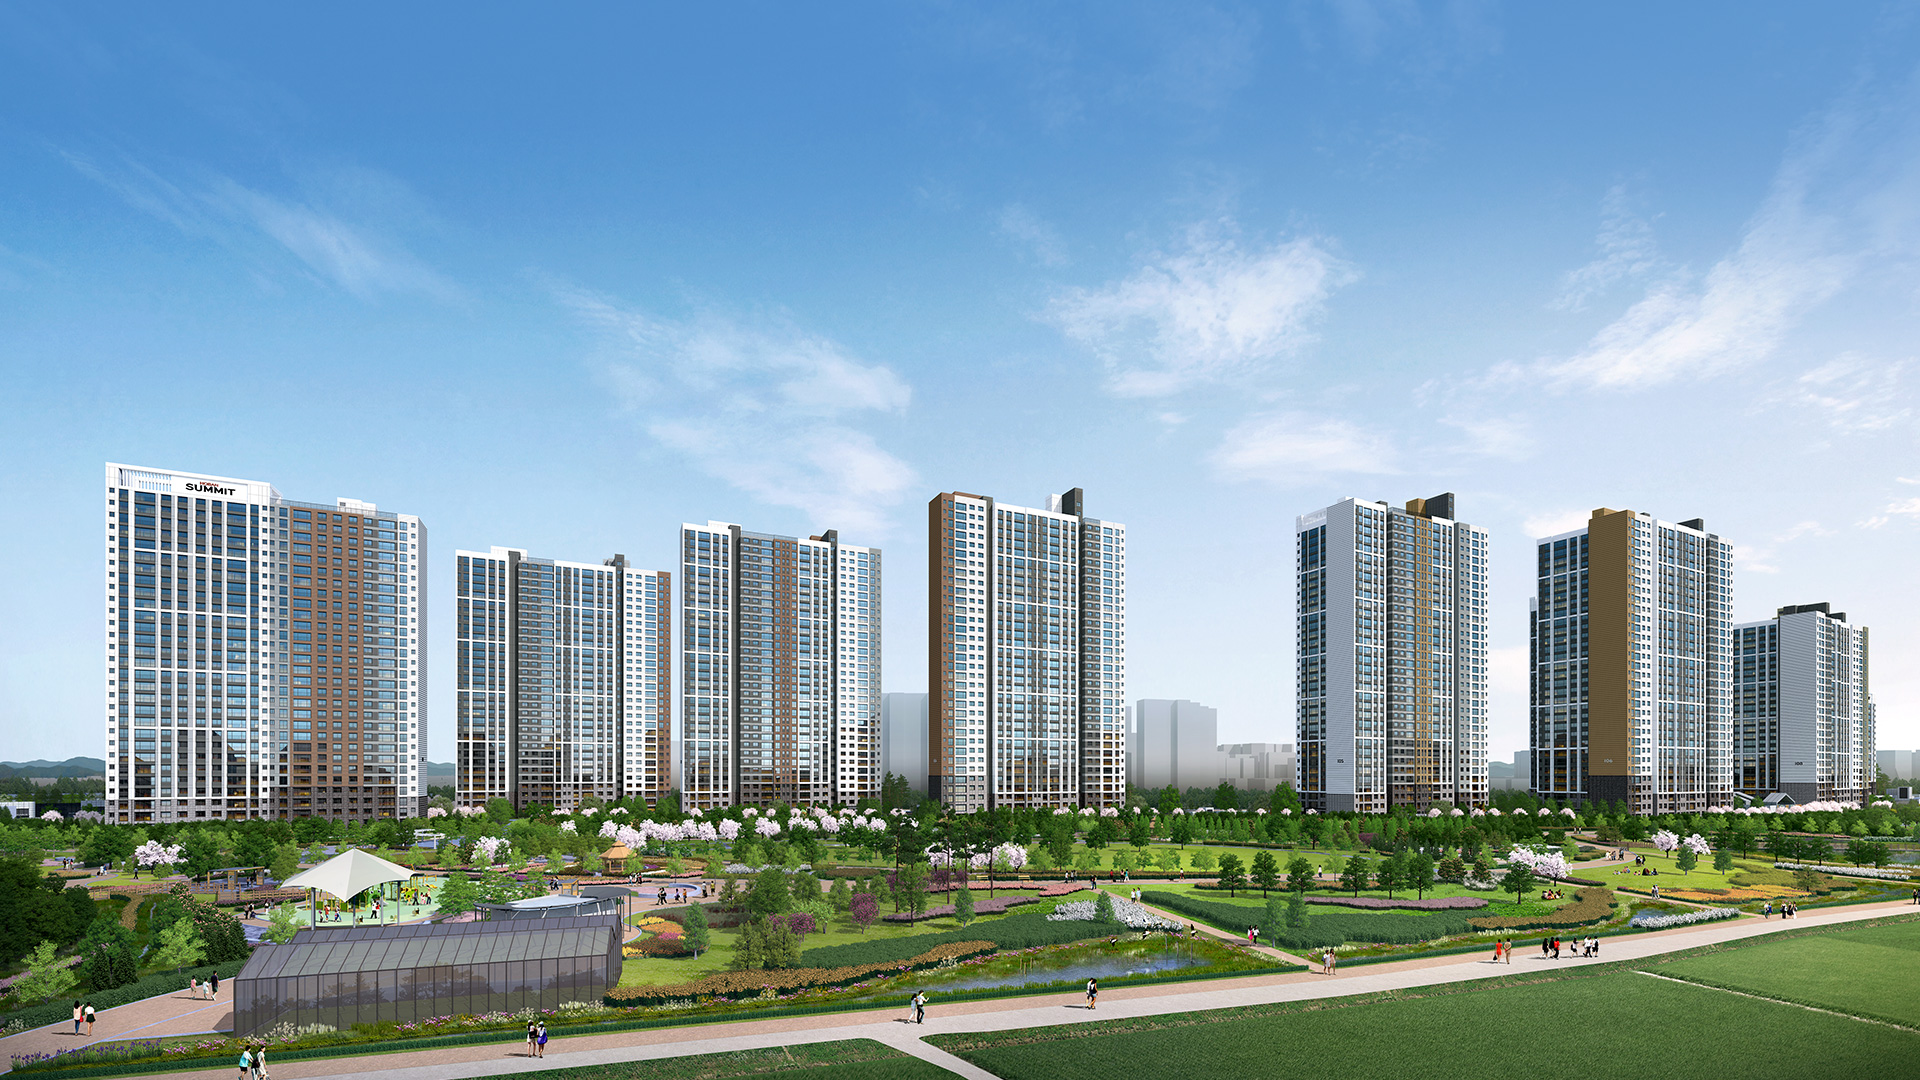
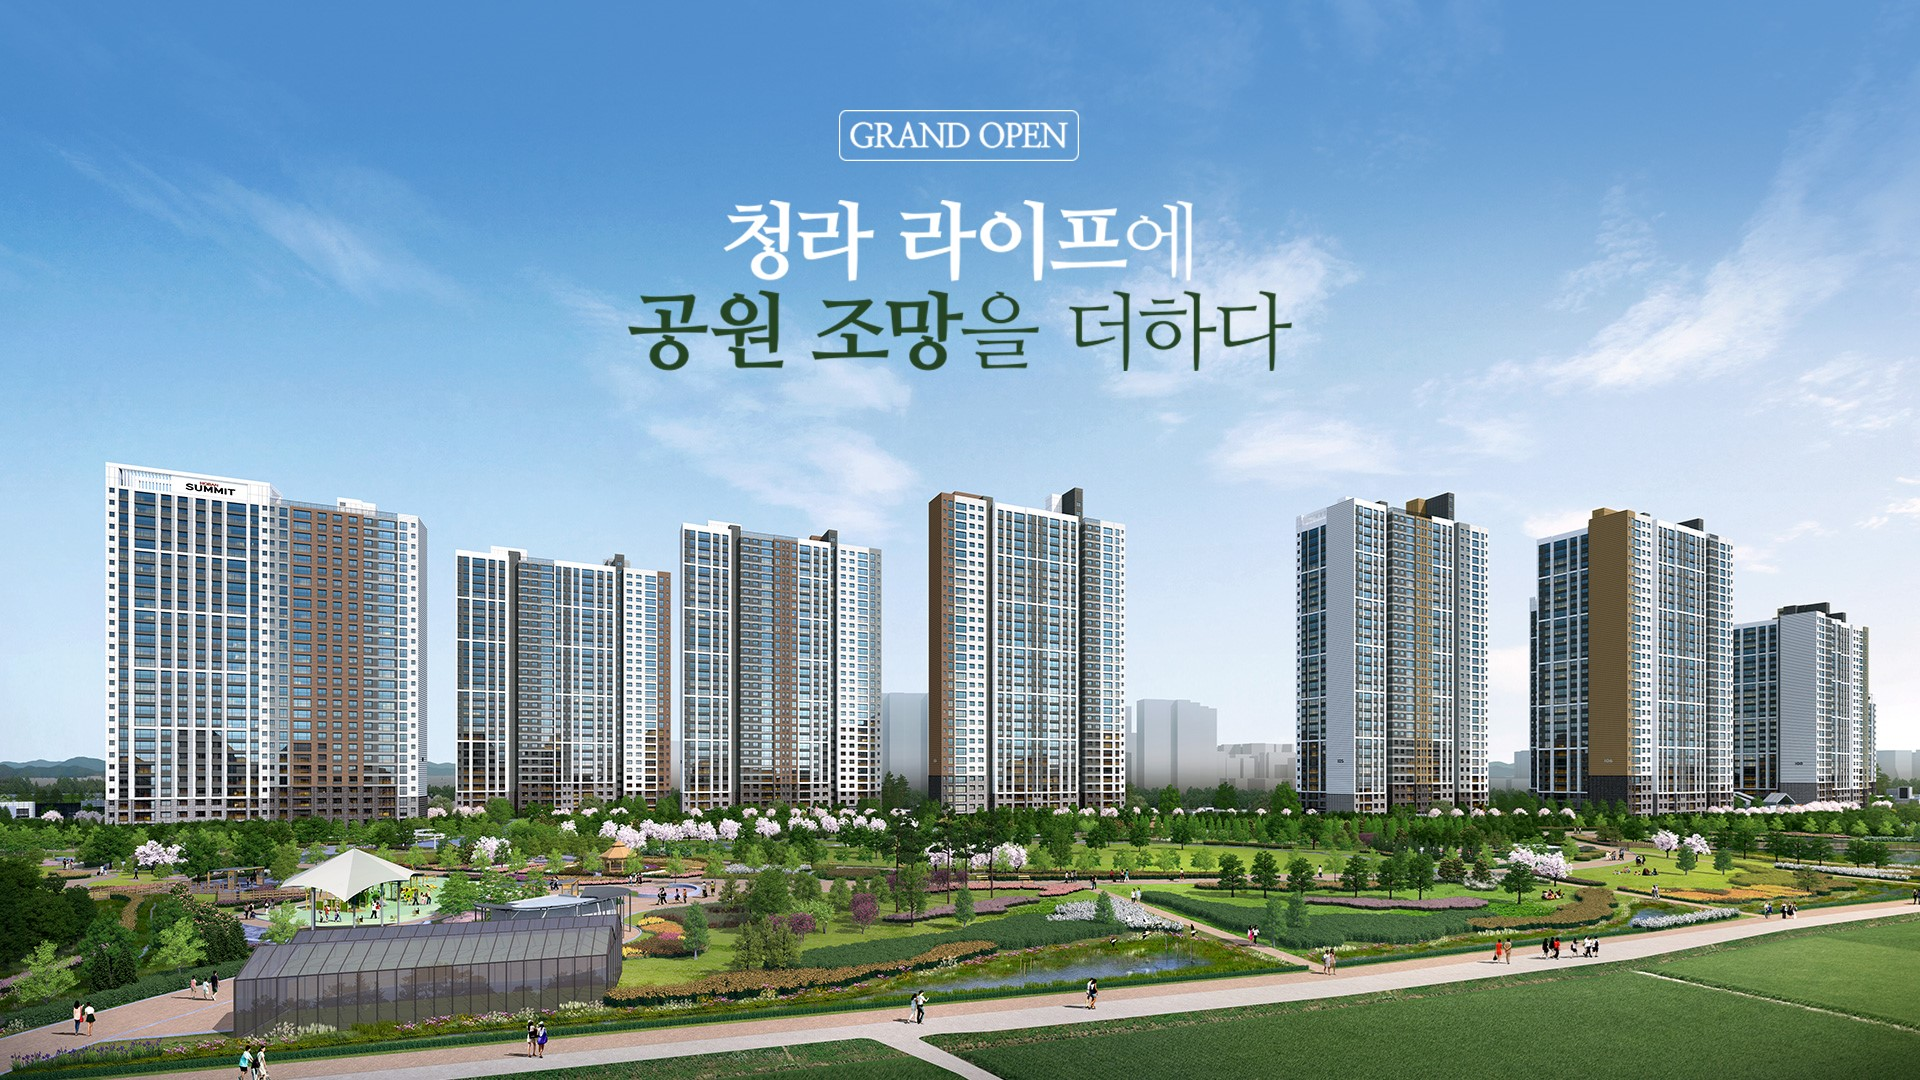
call and modal

diff --git a/index.html b/index.html
@@ -7,7 +7,7 @@
 <!DOCTYPE html>
 <html>
 <head>
-    <title>Modus - Single Page Portfolio Theme | GraphBerry.com</title>
+    <title>단지안내 - 인천연희공원 호반써밋</title>
     <meta charset="utf-8">
     <meta http-equiv="X-UA-Compatible" content="IE=edge">
     <meta name="viewport" content="width=device-width, initial-scale=1">
@@ -31,9 +31,53 @@
     <link rel="stylesheet" href="https://cdnjs.cloudflare.com/ajax/libs/lightbox2/2.8.2/css/lightbox.min.css">
     <link rel="stylesheet" href="css/my_mouseover.css" />
 
+
+	<link rel="stylesheet" href="//maxcdn.bootstrapcdn.com/bootstrap/3.3.2/css/bootstrap.min.css">
+<script src="https://code.jquery.com/jquery-3.5.1.min.js"></script>
+<script src="//maxcdn.bootstrapcdn.com/bootstrap/3.3.2/js/bootstrap.min.js"></script>
+	<script>
+		$(function() {
+			$("#modal").modal("show");
+		});
+		</script>
+		
 </head>
 <body>
 
+
+	<div class="modal" id="modal"  role="dialog" aria-labelledby="remoteModalLabel" aria-hidden="true" >
+		<div class="modal-dialog" style="width:850px;">
+			<div class="modal-content" >
+				<div class="modal-header">
+					<button type="button" class="close" data-dismiss="modal" aria-hidden="true">
+						
+					</button>
+					<h4 class="modal-title" id="myModalLabel"></h4>
+				</div>
+				<div class="modal-body">
+					<div class="jarviswidget jarviswidget-color-blueDark" id="wid-id-4" data-widget-editbutton="false" data-widget-colorbutton="false" data-widget-deletebutton="false" data-widget-togglebutton="false">
+						<div role="content">
+							<div class="widget-body">		
+								<p style="text-align: center;"><img src="./img/test1/1.jpg" style="width: 480px; height: 500px;" class="fr-dib"></p>
+								<!-- <a href="tel:전화번호"> 표시할 문자 혹은 <img>태그 </a>
+								<a href="tel-av:전화번호"> 표시할 문자 혹은 <img>태그 </a>
+								<a href="sms:전화번호"> 표시할 문자 혹은 <img>태그 </a>
+								<a href="mailto:메일주소"> 표시할 문자 혹은 <img>태그 </a> -->
+
+
+							</div>
+						</div>
+					</div>
+				</div>
+				<div class="modal-footer">
+					<button type="button" class="btn btn-default" data-dismiss="modal">닫기</button>
+					<!-- <button type="button" class="btn btn-primary" id="btn_save">저장</button> -->
+				</div>
+			</div>
+		</div>
+	</div>
+
+	
 	<header id="header">
 		
 		<!-- Section title -->
@@ -60,13 +104,16 @@
 		    <!-- Collect the nav links, forms, and other content for toggling -->
 		    <div class="collapse navbar-collapse" id="main-navbar">
 		      <ul class="nav navbar-nav navbar-right">
-		        <li class="active"><a class="smoothScroll" href="#home">Home <span class="sr-only">(current)</span></a></li>
-		        <li><a class="smoothScroll" href="#business">사업개요</a></li>
-				<li><a class="smoothScroll" href="#premium">프리미엄</a></li>
-		        <li><a class="smoothScroll" href="#location">입지안내</a></li>
-		        <li><a class="smoothScroll" href="#estate">단지안내</a></li>
-		        <li><a class="smoothScroll" href="#generation">세대안내</a></li>
-				<li><a class="smoothScroll" href="#application">미계약분대기신청</a></li>
+		        <li class="active"><a class="smoothScroll" href="#home" style="font-size:large;">Home <span class="sr-only">(current)</span></a></li>
+		        <li><a class="smoothScroll" href="#business" style="font-size:large;">사업개요</a></li>
+				<li><a class="smoothScroll" href="#premium" style="font-size:large;">프리미엄</a></li>
+		        <li><a class="smoothScroll" href="#location" style="font-size:large;">입지안내</a></li>
+		        <li><a class="smoothScroll" href="#estate" style="font-size:large;">단지안내</a></li>
+		        <li><a class="smoothScroll" href="#generation" style="font-size:large;">세대안내</a></li>
+				<li><a class="smoothScroll" href="#application" style="font-size:large;">미계약분대기신청</a></li>
+				<li><a class="smoothScroll" href="tel:전화번호" style="font-size:large; color:#f25656 ;    filter: invert(16%) sepia(89%) saturate(6054%) hue-rotate(358deg) brightness(97%) contrast(113%);"> 
+					<img src="./img/test1/telephone.svg">010-7202-8295</a></li>
+
 		      </ul>
 		    </div><!-- /.navbar-collapse -->
 		  </div><!-- /.container -->
@@ -76,38 +123,15 @@
 
 	<main>
 		
-		<section id="home">
-
+		<section id="home1">
 			<!-- Section title -->
-			<h1 class="sr-only">Home section</h1>
-			
-
-			<div class="home-content">
+			<h1 class="sr-only">Home section1</h1>
+			<div class="home-content2">
 						<div class="text _text_wrap">
 							<div class="text-wrap _text fr-view">
-							    <p style="text-align: center;"><br></p>
-							    <p style="text-align: center;"><br></p>
-							    <p><br></p>
-							    <p><br></p>
-								<p><br></p>
-							    <p><img src="https://cdn.imweb.me/upload/S20230228dff527f4c4b41/ea8cc899ea644.png" style="width: 100vw;" class="fr-dib"></p>
-							    <p><strong></strong><br></p>
-							    <p style="text-align: center;"><strong><span style="font-size: 48px; color: rgb(255, 255, 4);">청라 연희공원 호반써밋</span></strong></p>
-							    <p style="text-align: center;"><br></p>
-							    <p style="text-align: center;"><img src="https://cdn.imweb.me/upload/S20230228dff527f4c4b41/5154cc2d6f4b3.png" style="width: 100vw;" class="fr-dib"></p>
-							    <p style="text-align: center;"><br></p>
-							    <p style="text-align: center;"><br></p>
-							    <p style="text-align: center;"><br></p>
-							    <p style="text-align: center;"><br></p>
-							    <p style="text-align: center;"><br></p>
-							    <p style="text-align: center;"><br></p>
-							    <p style="text-align: center;"><br></p>
-							    <p style="text-align: center;"><br></p>
-							    <p style="text-align: center;"><br></p>
-							    <p style="text-align: center;"><br></p>
-							    <p style="text-align: center;"><br></p>
-							    <p style="text-align: center;"><br></p>
-							    <p style="text-align: center;"><br></p>
+								<p style="text-align: center;"><img src="./img/test1/1.jpg" style="width: 100vw; height: auto;" class="fr-dib"></p>
+
+								
 							</div>
 						</div>
 					</div>
@@ -115,7 +139,6 @@
 			</div>
 
 		</section>
-		<br><br><br><br><br>
 		<section id="home2">
 			<!-- Section title -->
 			<h1 class="sr-only">Home section2</h1>
@@ -124,6 +147,8 @@
 							<div class="text-wrap _text fr-view">
 							    <p style="text-align: center;"><br></p>
 							    <p style="text-align: center;"><br></p>
+								<!-- <p style="text-align: center;"><img src="./img/test1/1.jpg" style="width: 100vw; height: auto;" class="fr-dib"></p> -->
+
 								<!-- 두번째 사진-->
 							    <p><img src="./img/test1/2.png" style="max-width: 100%; height: auto; display: block; margin-left: auto; margin-right: auto;"> </p>
 							    <p><strong></strong><br></p>
@@ -263,10 +288,10 @@
 									</section>	
 								</div>
 								-->
-								<div class="col-sm-6 col-md-4 col-lg-3 item"><a href="./img/test1/15.png" data-lightbox="photos"><img class="img-fluid" src="./img/test1/15.png" style="max-width: 100% !important; height: auto !important;"></a></div>
-								<div class="col-sm-6 col-md-4 col-lg-3 item"><a href="./img/test1/16.png" data-lightbox="photos"><img class="img-fluid" src="./img/test1/16.png" style="max-width: 100% !important; height: auto !important;"></a></div>
-								<div class="col-sm-6 col-md-4 col-lg-3 item"><a href="./img/test1/17.png" data-lightbox="photos"><img class="img-fluid" src="./img/test1/17.png" style="max-width: 100% !important; height: auto !important;"></a></div>
-								<div class="col-sm-6 col-md-4 col-lg-3 item"><a href="./img/test1/18.png" data-lightbox="photos"><img class="img-fluid" src="./img/test1/18.png" style="max-width: 100% !important; height: auto !important;"></a></div>
+								<div class="col-sm-6 col-md-4 col-lg-3 item"><a href="./img/test1/15.png" data-lightbox="photos"><img class="img-fluid" src="./img/test1/15.png" style="max-width: 100% !important; height: auto !important;   flex-wrap: wrap;"></a></div>
+								<div class="col-sm-6 col-md-4 col-lg-3 item"><a href="./img/test1/16.png" data-lightbox="photos"><img class="img-fluid" src="./img/test1/16.png" style="max-width: 100% !important; height: auto !important; flex-wrap: wrap;"></a></div>
+								<div class="col-sm-6 col-md-4 col-lg-3 item"><a href="./img/test1/17.png" data-lightbox="photos"><img class="img-fluid" src="./img/test1/17.png" style="max-width: 100% !important; height: auto !important; flex-wrap: wrap;"></a></div>
+								<div class="col-sm-6 col-md-4 col-lg-3 item"><a href="./img/test1/18.png" data-lightbox="photos"><img class="img-fluid" src="./img/test1/18.png" style="max-width: 100% !important; height: auto !important; flex-wrap: wrap;"></a></div>
 								<!-- <div class="col-sm-6 col-md-4 col-lg-3 item" ><a href="./img/test1/15.png" data-lightbox="photos"><img class="img-fluid" src="./img/test1/15.png"></a></div> -->
 								<!-- <div class="col-sm-6 col-md-4 col-lg-3 item"><a href="./img/test1/12.png" data-lightbox="photos"><img class="img-fluid" src="assets/img/desk.jpg"></a></div> -->
 							</div>

diff --git a/css/style.css b/css/style.css
@@ -182,11 +182,11 @@ HOME SECTION
 ***********************/
 
 #home {
-	height: 725px;
+	/* height: 725px; */
 	/* height: 1500px; */
 
 	/* height : responsive; */
-	background: url("../img/header.jpg") center center no-repeat;
+	/* background: url("../img/header.jpg") center center no-repeat; */
 	background-size: cover;
 	background-position : 50% 50%;
 	
